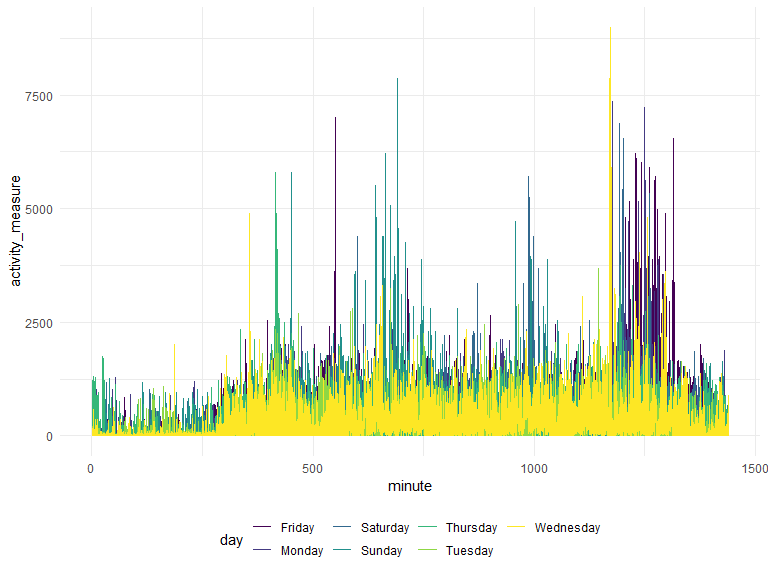
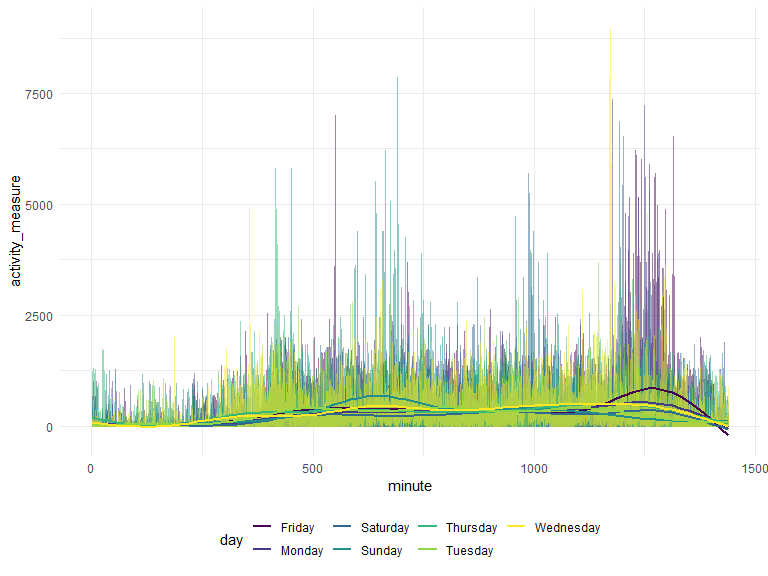
final edits to the write-up...

diff --git a/p8105_hw3_hbm2126.md b/p8105_hw3_hbm2126.md
@@ -140,6 +140,21 @@ accel_df =
     ## ℹ Use `spec()` to retrieve the full column specification for this data.
     ## ℹ Specify the column types or set `show_col_types = FALSE` to quiet this message.
 
+### Describing resulting dataset
+
+After cleaning the dataset in the code chunk above, the resulting
+dataset has 50400 observations and 6 variables. The dataset contains the
+following variables: what day and week the observation is from, the
+minute of the day (the observations were recorded at one-minute
+intervals) associated with the observation, the actual physical activity
+measure, and a variable that indicates whether this observation was
+recorded on a weekday or a weekend.
+
+The table below shows total activity per day across each one of the 5
+weeks. There are no apparent patterns in the table. However, it is worth
+noting that for weeks 4 and 5, the total activity per day on the
+weekends was much lower than on the weekdays.
+
 ``` r
 total_activity = 
   accel_df %>% 
@@ -157,10 +172,32 @@ total_activity =
     ## argument.
 
 ``` r
+total_activity
+```
+
+| week |    Monday |  Tuesday | Wednesday | Thursday |   Friday | Saturday | Sunday |
+|-----:|----------:|---------:|----------:|---------:|---------:|---------:|-------:|
+|    1 |  78828.07 | 307094.2 |    340115 | 355923.6 | 480542.6 |   376254 | 631105 |
+|    2 | 295431.00 | 423245.0 |    440962 | 474048.0 | 568839.0 |   607175 | 422018 |
+|    3 | 685910.00 | 381507.0 |    468869 | 371230.0 | 467420.0 |   382928 | 467052 |
+|    4 | 409450.00 | 319568.0 |    434460 | 340291.0 | 154049.0 |     1440 | 260617 |
+|    5 | 389080.00 | 367824.0 |    445366 | 549658.0 | 620860.0 |     1440 | 138421 |
+
+The plot below shows the 24-hour activity time courses for each day.
+Some patterns that are apparent from this plot: Wednesday and Friday
+have some of the highest activity measures in the week. Most activity
+starts picking up after the 250th minute, on all days, and plateaus
+around the 750th minute, and picks up again a little bit around the
+1200th minute.
+
+``` r
 accel_df %>% 
   ggplot(aes(x = minute, y = activity_measure, color = day)) +
-  geom_line()
+  geom_line(alpha = .5) +
+  geom_smooth(se = FALSE)
 ```
+
+    ## `geom_smooth()` using method = 'gam' and formula 'y ~ s(x, bs = "cs")'
 
 <img src="p8105_hw3_hbm2126_files/figure-gfm/unnamed-chunk-5-1.png" width="90%" />
 
@@ -173,6 +210,17 @@ ny_noaa =
   ny_noaa %>% 
   as_tibble(ny_noaa)
 ```
+
+### Describing the dataset
+
+The NY NOAA dataset has 2595176 observations and 7 variables. This
+dataset contains weather data for all New York state weather stations
+from 1981-01-01 to 2010-12-31 The variables in this dataset include the
+station ID, the date of observation, precipitation (in tenths of mm),
+snowfall (in mm), snow depth (in mm), and maximum and minimum
+temperatures (in tenths of degrees). This dataset contains a lot of
+missing values: more precisely, there are 3387623 rows with missing
+values in this data.
 
 ``` r
 ny_noaa_tidy = 
@@ -188,15 +236,52 @@ ny_noaa_tidy =
     ) 
 ```
 
+### Answering questions about the dataset (after tidying)
+
+The most commonly observed value for snowfall is 0 mm. I think this
+makes sense because it only snows during the winter months and even in
+the winter months, it does not snow everyday. Therefore, for most days
+in the year, we would expect no snowfall. As seen in the table below,
+the second most common value is NA/missing. This may be because there
+snowfall data was not collected every day in the year.
+
+``` r
+ny_noaa_tidy %>% 
+  count(snow) %>% 
+  mutate(rank = min_rank(desc(n))) %>%
+  filter(rank < 4) %>% 
+  arrange(desc(n)) %>% 
+  knitr::kable()
+```
+
+| snow |       n | rank |
+|-----:|--------:|-----:|
+|    0 | 2008508 |    1 |
+|   NA |  381221 |    2 |
+|   25 |   31022 |    3 |
+
+### Making plots
+
+The plot below shows the average max temperature in January and July in
+each station across years. The average max temperature is much higher in
+July than in January, which makes sense. There are cyclical patterns
+where the average max temperature increases and decreases, that is more
+or less consistent across the years and across the months. There are no
+outliers as such.
+
 ``` r
 avg_tmax_plot = 
   ny_noaa_tidy %>% 
   group_by(id, year, month) %>% 
   filter(month %in% c("01", "07")) %>% 
+  mutate(
+    month = recode(month, "01" = "Jan", "07" = "July")
+  ) %>% 
   summarize(avg_tmax = mean(tmax)) %>% 
-  ggplot(aes(x = year, y = avg_tmax, group = id)) +
+  ggplot(aes(x = year, y = avg_tmax, group = id, color = month)) +
   geom_line() +
-  facet_grid(~month)
+  facet_grid(~month) +
+  theme(axis.text.x = element_text(angle = 60, hjust = 1))
 ```
 
     ## `summarise()` has grouped output by 'id', 'year'. You can override using the
@@ -206,23 +291,22 @@ avg_tmax_plot =
 avg_tmax_plot
 ```
 
-<img src="p8105_hw3_hbm2126_files/figure-gfm/unnamed-chunk-6-1.png" width="90%" />
+<img src="p8105_hw3_hbm2126_files/figure-gfm/unnamed-chunk-7-1.png" width="90%" />
 
 ``` r
 tmax_tmin_plot = 
   ny_noaa_tidy %>% 
-  ggplot(aes(x = tmax, y = tmin, color = id)) + 
-  geom_point(alpha = .5) +
-  theme(legend.position = "none")
+  ggplot(aes(x = tmax, y = tmin)) + 
+  geom_hex() +
+  theme(legend.position = "right")
 ```
 
 ``` r
 snowfall_dist = 
   ny_noaa_tidy %>% 
-  filter(snow > 0 & snow < 100) %>% 
-  ggplot(aes(x = snow, fill = id)) + 
-  geom_density(alpha = .5) + 
-  theme(legend.position = "none")
+  filter(snow > 0 & snow < 100) %>%
+  ggplot(aes(x = snow, y = year)) + 
+  geom_density_ridges(scale = .85)
 ```
 
 ``` r
@@ -230,4 +314,6 @@ combined_plot = tmax_tmin_plot + snowfall_dist
 combined_plot
 ```
 
-<img src="p8105_hw3_hbm2126_files/figure-gfm/unnamed-chunk-9-1.png" width="90%" />
+    ## Picking joint bandwidth of 3.76
+
+<img src="p8105_hw3_hbm2126_files/figure-gfm/unnamed-chunk-10-1.png" width="90%" />
